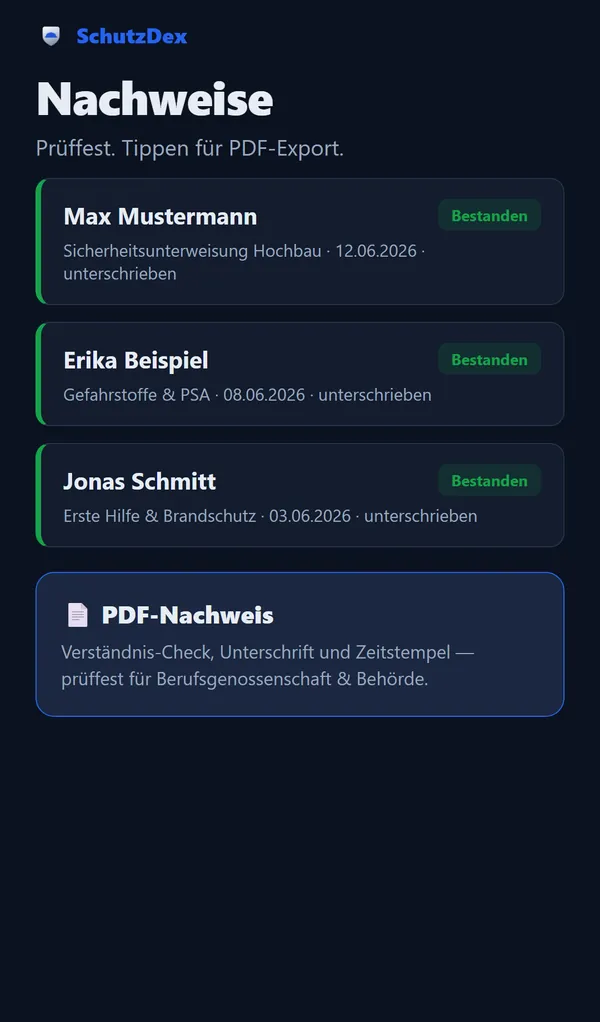
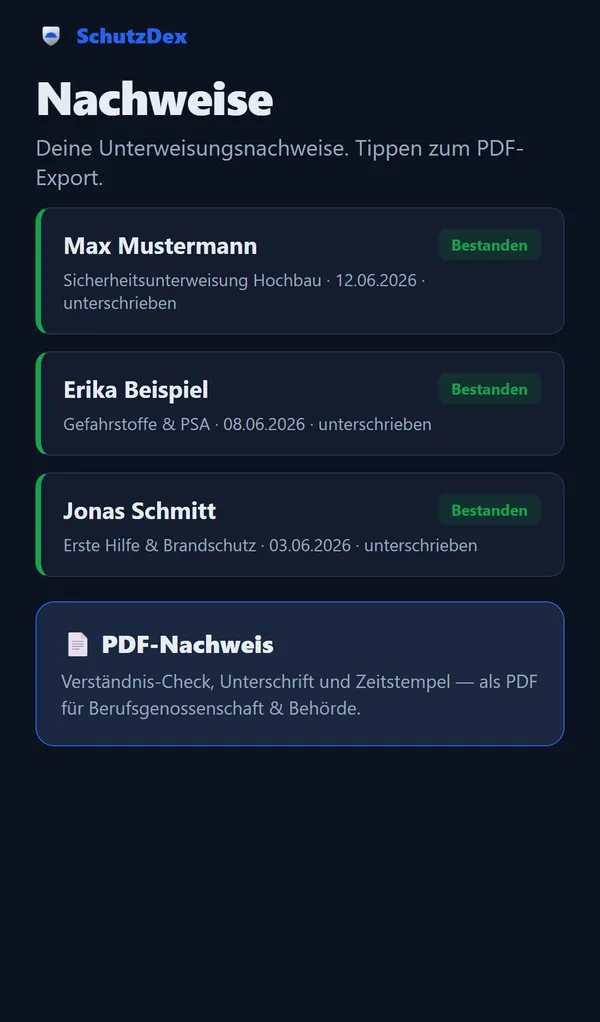
Landing: Handy-Wand mit echten App-Bildschirmen im Kopfbereich

diff --git a/index.html b/index.html
@@ -283,6 +283,44 @@
     .js .rv { opacity: 0; transform: translateY(14px); transition: opacity .6s ease, transform .6s cubic-bezier(.2,.7,.2,1); }
     .js .rv.in { opacity: 1; transform: none; }
     @media (prefers-reduced-motion: reduce) { .js .rv { opacity: 1; transform: none; transition: none; } html { scroll-behavior: auto; } }
+
+    /* Handy-Wand + Lichter in der App-Farbe (Kopfbereich) */
+    .hero.walled { isolation: isolate; min-height: min(780px, 100svh); display: flex; align-items: center;
+      background:
+        radial-gradient(55% 70% at 80% 30%, color-mix(in oklab, var(--accent) 34%, transparent), transparent 70%),
+        radial-gradient(40% 55% at 100% 90%, color-mix(in oklab, var(--accent) 18%, transparent), transparent 70%),
+        radial-gradient(45% 60% at 0% 0%, color-mix(in oklab, var(--accent) 14%, transparent), transparent 70%),
+        var(--bg); }
+    .hero.walled::before { display: none; }
+    .hero.walled::after { content: ''; position: absolute; inset: 0; z-index: -1; pointer-events: none;
+      background: linear-gradient(90deg, var(--bg) 0%, color-mix(in oklab, var(--bg) 92%, transparent) 30%, color-mix(in oklab, var(--bg) 40%, transparent) 56%, transparent 78%),
+        linear-gradient(0deg, var(--bg) 0%, color-mix(in oklab, var(--bg) 60%, transparent) 12%, transparent 34%); }
+    .hero.walled > .wrap { position: relative; z-index: 1; width: 100%; }
+    .wall { position: absolute; inset: 0; z-index: -2; overflow: hidden; pointer-events: none; }
+    .wall-in { position: absolute; top: -38%; left: 26%; width: 115%; height: 190%; display: flex; gap: 26px;
+      transform: perspective(2200px) rotateX(14deg) rotateZ(-15deg); transform-origin: 50% 0; opacity: .5; }
+    .col { flex: none; width: 160px; }
+    .col:nth-child(even) { margin-top: -140px; }
+    .track { animation: wall-up var(--d) linear infinite; will-change: transform; }
+    .col:nth-child(even) .track { animation-name: wall-down; }
+    @keyframes wall-up { from { transform: translate3d(0, 0, 0); } to { transform: translate3d(0, -50%, 0); } }
+    @keyframes wall-down { from { transform: translate3d(0, -50%, 0); } to { transform: translate3d(0, 0, 0); } }
+    .wall.paused .track { animation-play-state: paused; }
+    @media (prefers-reduced-motion: reduce) { .track { animation: none; } }
+    .mp { position: relative; margin-bottom: 26px; padding: 5px; border-radius: 26px; background: linear-gradient(160deg, #343947, #0d1018 45%);
+      box-shadow: 0 0 0 1px rgba(255,255,255,.07) inset, 0 24px 40px -22px rgba(0,0,0,.9); }
+    .mp::before { content: ''; display: block; height: 14px; border-radius: 21px 21px 0 0; background: var(--bar); }
+    .mp::after { content: ''; position: absolute; top: 9px; left: 50%; width: 32%; height: 8px; transform: translateX(-50%); border-radius: 99px; background: #000; }
+    .mp img { display: block; width: 100%; height: auto; aspect-ratio: 150 / 290; object-fit: cover; object-position: top; border-radius: 0 0 21px 21px; }
+    /* Lichtschein hinter den beiden Handys */
+    .hero.walled .shots::before { content: ''; position: absolute; inset: 8% 4% 10%; border-radius: 50%; z-index: -1; filter: blur(48px);
+      background: radial-gradient(closest-side, color-mix(in oklab, var(--accent) 55%, transparent), color-mix(in oklab, var(--accent) 18%, transparent) 60%, transparent); }
+    @media (max-width: 900px) {
+      .hero.walled { min-height: 0; }
+      .hero.walled::after { background: linear-gradient(180deg, color-mix(in oklab, var(--bg) 92%, transparent) 0%, color-mix(in oklab, var(--bg) 74%, transparent) 50%, color-mix(in oklab, var(--bg) 55%, transparent) 75%, var(--bg) 100%); }
+      .wall-in { left: -30%; top: -20%; width: 170%; opacity: .42; }
+    }
+    @media (max-width: 480px) { .col { width: 128px; } .wall-in { gap: 18px; } }
   </style>
   <script>document.documentElement.classList.add('js')</script>
 </head>
@@ -296,7 +334,8 @@
   </header>
 
   <main>
-    <div class="hero">
+    <div class="hero walled">
+      <div class="wall" aria-hidden="true"><div class="wall-in"><div class="col" style="--d:70s"><div class="track"><div class="mp" style="--bar:#0b1220"><img src="assets/shots/wand-1.webp" width="300" height="511" alt="" decoding="async" fetchpriority="low"></div><div class="mp" style="--bar:#0b1220"><img src="assets/shots/wand-3.webp" width="300" height="511" alt="" decoding="async" fetchpriority="low"></div><div class="mp" style="--bar:#0b1220"><img src="assets/shots/wand-5.webp" width="300" height="511" alt="" decoding="async" fetchpriority="low"></div><div class="mp" style="--bar:#0b1220"><img src="assets/shots/wand-2.webp" width="300" height="511" alt="" decoding="async" fetchpriority="low"></div><div class="mp" style="--bar:#0b1220"><img src="assets/shots/wand-1.webp" width="300" height="511" alt="" decoding="async" fetchpriority="low"></div><div class="mp" style="--bar:#0b1220"><img src="assets/shots/wand-3.webp" width="300" height="511" alt="" decoding="async" fetchpriority="low"></div><div class="mp" style="--bar:#0b1220"><img src="assets/shots/wand-5.webp" width="300" height="511" alt="" decoding="async" fetchpriority="low"></div><div class="mp" style="--bar:#0b1220"><img src="assets/shots/wand-2.webp" width="300" height="511" alt="" decoding="async" fetchpriority="low"></div></div></div><div class="col" style="--d:88s"><div class="track"><div class="mp" style="--bar:#0b1220"><img src="assets/shots/wand-4.webp" width="300" height="511" alt="" decoding="async" fetchpriority="low"></div><div class="mp" style="--bar:#0b1220"><img src="assets/shots/wand-1.webp" width="300" height="511" alt="" decoding="async" fetchpriority="low"></div><div class="mp" style="--bar:#0b1220"><img src="assets/shots/wand-3.webp" width="300" height="511" alt="" decoding="async" fetchpriority="low"></div><div class="mp" style="--bar:#0b1220"><img src="assets/shots/wand-5.webp" width="300" height="511" alt="" decoding="async" fetchpriority="low"></div><div class="mp" style="--bar:#0b1220"><img src="assets/shots/wand-4.webp" width="300" height="511" alt="" decoding="async" fetchpriority="low"></div><div class="mp" style="--bar:#0b1220"><img src="assets/shots/wand-1.webp" width="300" height="511" alt="" decoding="async" fetchpriority="low"></div><div class="mp" style="--bar:#0b1220"><img src="assets/shots/wand-3.webp" width="300" height="511" alt="" decoding="async" fetchpriority="low"></div><div class="mp" style="--bar:#0b1220"><img src="assets/shots/wand-5.webp" width="300" height="511" alt="" decoding="async" fetchpriority="low"></div></div></div><div class="col" style="--d:106s"><div class="track"><div class="mp" style="--bar:#0b1220"><img src="assets/shots/wand-2.webp" width="300" height="511" alt="" decoding="async" fetchpriority="low"></div><div class="mp" style="--bar:#0b1220"><img src="assets/shots/wand-4.webp" width="300" height="511" alt="" decoding="async" fetchpriority="low"></div><div class="mp" style="--bar:#0b1220"><img src="assets/shots/wand-1.webp" width="300" height="511" alt="" decoding="async" fetchpriority="low"></div><div class="mp" style="--bar:#0b1220"><img src="assets/shots/wand-3.webp" width="300" height="511" alt="" decoding="async" fetchpriority="low"></div><div class="mp" style="--bar:#0b1220"><img src="assets/shots/wand-2.webp" width="300" height="511" alt="" decoding="async" fetchpriority="low"></div><div class="mp" style="--bar:#0b1220"><img src="assets/shots/wand-4.webp" width="300" height="511" alt="" decoding="async" fetchpriority="low"></div><div class="mp" style="--bar:#0b1220"><img src="assets/shots/wand-1.webp" width="300" height="511" alt="" decoding="async" fetchpriority="low"></div><div class="mp" style="--bar:#0b1220"><img src="assets/shots/wand-3.webp" width="300" height="511" alt="" decoding="async" fetchpriority="low"></div></div></div><div class="col" style="--d:79s"><div class="track"><div class="mp" style="--bar:#0b1220"><img src="assets/shots/wand-5.webp" width="300" height="511" alt="" decoding="async" fetchpriority="low"></div><div class="mp" style="--bar:#0b1220"><img src="assets/shots/wand-2.webp" width="300" height="511" alt="" decoding="async" fetchpriority="low"></div><div class="mp" style="--bar:#0b1220"><img src="assets/shots/wand-4.webp" width="300" height="511" alt="" decoding="async" fetchpriority="low"></div><div class="mp" style="--bar:#0b1220"><img src="assets/shots/wand-1.webp" width="300" height="511" alt="" decoding="async" fetchpriority="low"></div><div class="mp" style="--bar:#0b1220"><img src="assets/shots/wand-5.webp" width="300" height="511" alt="" decoding="async" fetchpriority="low"></div><div class="mp" style="--bar:#0b1220"><img src="assets/shots/wand-2.webp" width="300" height="511" alt="" decoding="async" fetchpriority="low"></div><div class="mp" style="--bar:#0b1220"><img src="assets/shots/wand-4.webp" width="300" height="511" alt="" decoding="async" fetchpriority="low"></div><div class="mp" style="--bar:#0b1220"><img src="assets/shots/wand-1.webp" width="300" height="511" alt="" decoding="async" fetchpriority="low"></div></div></div><div class="col" style="--d:97s"><div class="track"><div class="mp" style="--bar:#0b1220"><img src="assets/shots/wand-3.webp" width="300" height="511" alt="" decoding="async" fetchpriority="low"></div><div class="mp" style="--bar:#0b1220"><img src="assets/shots/wand-5.webp" width="300" height="511" alt="" decoding="async" fetchpriority="low"></div><div class="mp" style="--bar:#0b1220"><img src="assets/shots/wand-2.webp" width="300" height="511" alt="" decoding="async" fetchpriority="low"></div><div class="mp" style="--bar:#0b1220"><img src="assets/shots/wand-4.webp" width="300" height="511" alt="" decoding="async" fetchpriority="low"></div><div class="mp" style="--bar:#0b1220"><img src="assets/shots/wand-3.webp" width="300" height="511" alt="" decoding="async" fetchpriority="low"></div><div class="mp" style="--bar:#0b1220"><img src="assets/shots/wand-5.webp" width="300" height="511" alt="" decoding="async" fetchpriority="low"></div><div class="mp" style="--bar:#0b1220"><img src="assets/shots/wand-2.webp" width="300" height="511" alt="" decoding="async" fetchpriority="low"></div><div class="mp" style="--bar:#0b1220"><img src="assets/shots/wand-4.webp" width="300" height="511" alt="" decoding="async" fetchpriority="low"></div></div></div><div class="col" style="--d:70s"><div class="track"><div class="mp" style="--bar:#0b1220"><img src="assets/shots/wand-1.webp" width="300" height="511" alt="" decoding="async" fetchpriority="low"></div><div class="mp" style="--bar:#0b1220"><img src="assets/shots/wand-3.webp" width="300" height="511" alt="" decoding="async" fetchpriority="low"></div><div class="mp" style="--bar:#0b1220"><img src="assets/shots/wand-5.webp" width="300" height="511" alt="" decoding="async" fetchpriority="low"></div><div class="mp" style="--bar:#0b1220"><img src="assets/shots/wand-2.webp" width="300" height="511" alt="" decoding="async" fetchpriority="low"></div><div class="mp" style="--bar:#0b1220"><img src="assets/shots/wand-1.webp" width="300" height="511" alt="" decoding="async" fetchpriority="low"></div><div class="mp" style="--bar:#0b1220"><img src="assets/shots/wand-3.webp" width="300" height="511" alt="" decoding="async" fetchpriority="low"></div><div class="mp" style="--bar:#0b1220"><img src="assets/shots/wand-5.webp" width="300" height="511" alt="" decoding="async" fetchpriority="low"></div><div class="mp" style="--bar:#0b1220"><img src="assets/shots/wand-2.webp" width="300" height="511" alt="" decoding="async" fetchpriority="low"></div></div></div></div></div>
       <div class="wrap">
         <div>
           <span class="kicker">Arbeitsschutz · KI-gestützt · DE · AT · CH</span>
@@ -465,6 +504,10 @@
       var top = document.querySelector('.top');
       var onScroll = function () { top.classList.toggle('scrolled', window.scrollY > 8); };
       onScroll(); window.addEventListener('scroll', onScroll, { passive: true });
+      var wall = document.querySelector('.wall');
+      if (wall && 'IntersectionObserver' in window) {
+        new IntersectionObserver(function (es) { wall.classList.toggle('paused', !es[0].isIntersecting); }).observe(wall);
+      }
       var els = document.querySelectorAll('.rv');
       if (!('IntersectionObserver' in window) || matchMedia('(prefers-reduced-motion: reduce)').matches) {
         els.forEach(function (e) { e.classList.add('in'); }); return;
